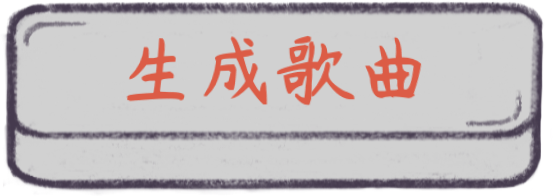
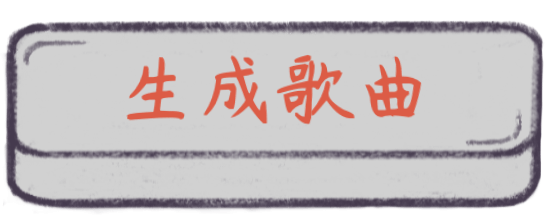
chore: 信纸页标签容器布局重新定位

diff --git a/src/components/dialog/dialog.tsx b/src/components/dialog/dialog.tsx
@@ -132,6 +132,7 @@ export default class DialogMain extends Component<IDialogProps, IDialogState> {
   private inputLock: boolean = false;
   // 保存用户选择的标签
   private selectTags: { [key: string]: boolean } = {};
+  private selectType: string = '';
 
   // iOS端：记录focus时的 scrollTop 值
   private tempScrollTop: number | undefined;
@@ -179,7 +180,12 @@ export default class DialogMain extends Component<IDialogProps, IDialogState> {
 
     document.body.addEventListener('blur', this.handleInputBlur, true);
 
-
+    // 阻止滚动时安卓浏览器发生的 resize 事件，避免导航栏工具栏消失
+    window.addEventListener("resize", function(e) {
+      console.log('resize');
+      console.log(window.innerHeight);
+      e.preventDefault();
+    }, { capture: true, passive: true });
 
     window.onload = () => {
       console.log('load');
@@ -194,7 +200,22 @@ export default class DialogMain extends Component<IDialogProps, IDialogState> {
     setTimeout(() => {
       const nodes = document.getElementsByClassName('letter-wrapper');
       if (nodes && nodes.length > 0) {
-        (nodes[0] as HTMLElement).style.height = `${window.innerWidth * 1.666}px`;
+        let h = window.innerWidth * 1.71;
+        if (h > window.innerHeight) {
+          (nodes[0] as HTMLElement).style.height = `${window.innerHeight}px`;
+
+          const imgW = window.innerHeight * (1269 / 2170);
+          
+          const tagContainer = document.querySelector('.tag-container') as HTMLElement;
+          if (tagContainer) {
+            tagContainer.style.width = `${imgW / window.innerWidth * 82.2}%`;
+            tagContainer.style.fontSize = `${16 * (1269 / 2170)}px`;
+          }
+
+
+        } else {
+          (nodes[0] as HTMLElement).style.height = `${h}px`;
+        }
       }
     }, 100);
 
@@ -364,18 +385,33 @@ export default class DialogMain extends Component<IDialogProps, IDialogState> {
     }
   }
 
-  handleClickTag = (e: any) => {
-    const type = e.target.getAttribute('data-type');
+  handleClickTag = (e: string) => {
+    // const type = e.target.getAttribute('data-type');
+    const type = e;
     if (!type) return;
+    
+    // 原本已选中一个tag, 先移除该选中态
+    if (this.selectType && this.selectType !== type) {
+      const nodes = document.getElementsByClassName(`item-${this.selectType}`);
+      for(let i = 0; i < nodes.length; i++) {
+        const list = nodes[i].classList;
+        if (list.contains('active')) {
+          nodes[i].classList.remove('active');
+        }
+      }
+    }
+
     const nodes = document.getElementsByClassName(`item-${type}`);
     for(let i = 0; i < nodes.length; i++) {
       const list = nodes[i].classList;
       if (list.contains('active')) {
         nodes[i].classList.remove('active');
-        this.selectTags[`item-${type}`] = true;
+        // this.selectTags[`item-${type}`] = false;
+        this.selectType = '';
       } else {
         nodes[i].classList.add('active');
-        this.selectTags[`item-${type}`] = false;
+        // this.selectTags[`item-${type}`] = true;
+        this.selectType = type;
       }
     }
   }
@@ -499,24 +535,50 @@ export default class DialogMain extends Component<IDialogProps, IDialogState> {
                 />
               </div>
               {sectionId === 7 && (
-                <Slider speed={20}>
-                  <div className="tag-row">
-                    <div className="tag-item item-a" onClick={this.handleClickTag} data-type="a" >爱拼才会赢</div>
-                    <div className="tag-item item-b" onClick={this.handleClickTag} data-type="b">未来不是梦</div>
-                    <div className="tag-item item-c" onClick={this.handleClickTag} data-type="c">我真的很不错</div>
-                    <div className="tag-item item-d" onClick={this.handleClickTag} data-type="d">壮志在我胸</div>
-                  </div>
-                  <div className="tag-row margin-row">
-                    <div className="tag-item item-e" onClick={this.handleClickTag} data-type="e">哈哈哈哈</div>
-                    <div className="tag-item item-f" onClick={this.handleClickTag} data-type="f">好嗨哟</div>
-                    <div className="tag-item item-g" onClick={this.handleClickTag} data-type="g">小幸运</div>
-                    <div className="tag-item item-h" onClick={this.handleClickTag} data-type="h">C位出道</div>
-                  </div>
-                  <div className="tag-row">
-                    <div className="tag-item item-i" onClick={this.handleClickTag} data-type="i">佛系少年</div>
-                    <div className="tag-item item-j" onClick={this.handleClickTag} data-type="j">葛优瘫</div>
-                    <div className="tag-item item-k" onClick={this.handleClickTag} data-type="k">断舍离</div>
-                    <div className="tag-item item-l" onClick={this.handleClickTag} data-type="l">神马都是浮云</div>
+                <Slider speed={40}>
+                  <div className="slide-content">
+                    <div className="tag-row">
+                      <div className="tag-item item-a" onClick={() => { this.handleClickTag('a'); }}>
+                        <span>爱拼才会赢</span>
+                      </div>
+                      <div className="tag-item item-b" onClick={() => { this.handleClickTag('b'); }}>
+                        <span>未来不是梦</span>
+                      </div>
+                      <div className="tag-item item-c" onClick={() => { this.handleClickTag('c'); }}>
+                        <span>我真的很不错</span>
+                      </div>
+                      <div className="tag-item item-d" onClick={() => { this.handleClickTag('d'); }}>
+                        <span>壮志在我胸</span>
+                      </div>
+                    </div>
+                    <div className="tag-row margin-row">
+                      <div className="tag-item item-e" onClick={() => { this.handleClickTag('e'); }}>
+                        <span>哈哈哈哈</span>
+                      </div>
+                      <div className="tag-item item-f" onClick={() => { this.handleClickTag('f'); }}>
+                        <span>好嗨哟</span>
+                      </div>
+                      <div className="tag-item item-g" onClick={() => { this.handleClickTag('g'); }}>
+                        <span>小幸运</span>
+                      </div>
+                      <div className="tag-item item-h" onClick={() => { this.handleClickTag('h'); }}>
+                        <span>C位出道</span>
+                      </div>
+                    </div>
+                    <div className="tag-row">
+                      <div className="tag-item item-i" onClick={() => { this.handleClickTag('i'); }}>
+                        <span>佛系少年</span>
+                      </div>
+                      <div className="tag-item item-j" onClick={() => { this.handleClickTag('j'); }}>
+                        <span>葛优瘫</span>
+                      </div>
+                      <div className="tag-item item-k" onClick={() => { this.handleClickTag('k'); }}>
+                        <span>断舍离</span>
+                      </div>
+                      <div className="tag-item item-l" onClick={() => { this.handleClickTag('l'); }}>
+                        <span>神马都是浮云</span>
+                      </div>
+                    </div>
                   </div>
                 </Slider>
               )}

diff --git a/src/components/dialog/dialog.css b/src/components/dialog/dialog.css
@@ -252,13 +252,13 @@ div.textarea:before {
 
 .letter-wrapper {
   position: absolute;
-  /* width: 100%; */
   bottom: 0;
   left: 0;
   right: 0;
   background: url('../../assets/letter.png') no-repeat;
   background-size: contain;
-  background-position: 10px center;
+  /* background-position-y: bottom; */
+  background-position: center bottom;
 }
 
 .el-confirm {
@@ -270,14 +270,14 @@ div.textarea:before {
   transform: translateX(-50%);
   background: url('../../assets/confirm-btn.png') no-repeat;
   background-size: contain;
-  background-position-y: bottom;
+  background-position: center bottom;
   user-select: none;
 }
 
 .el-confirm.touch {
   background: url('../../assets/confirm-btn_touch.jpg') no-repeat; 
   background-size: contain;
-  background-position-y: bottom;
+  background-position: center bottom;
 }
 
 @keyframes rotateUp {
@@ -316,11 +316,24 @@ div.textarea:before {
   background: center / contain no-repeat url('../../assets/bg-lyrics.png');
 }
 
+.slide-content {
+  height: 100%;
+  width: 100%;
+  display: flex;
+  flex-direction: column;
+  justify-content: space-around;
+}
+
 .tag-container {
   position: relative;
-  width: 86%;
   margin: 0 auto;
-  top: 49%;
+  /* top: 49%; */
+  /* 下面三个比例均为相对信纸元素尺寸 */
+  top: 46%;
+  height: 25.1%;
+  /* width可能会变 */
+  width: 82.2%;
+  transform: translateX(-1rem);
 }
 
 .str_move {
@@ -343,6 +356,12 @@ div.textarea:before {
   background: center / cover url('../../assets/tag.png') no-repeat;
   font-size: 0.8rem;
   margin-left: 0.8rem;
+
+  width: 7.5em;
+  height: 2.5em;
+  line-height: 2em;
+  font-size: 0.8em;
+  margin-left: 0.8em;
 }
 
 .tag-click {
@@ -355,24 +374,24 @@ div.textarea:before {
 
 /* 自定义歌曲名输入框 */
 .input-container {
-  width: 8rem;
-  height: 2rem;
+  width: 8em;
   margin: 0 auto;
   background: center / contain url('../../assets/input.png') no-repeat;
-  margin-bottom: 0.3rem;
+  height: 26%;
 }
 
 .input-container input[type='text'] {
   user-select: auto;
-  width: 8rem;
-  height: 2rem;
-  line-height: 2rem;
+  width: 8em;
+  /* height: 2rem; */
+  height: 100%;
+  line-height: 2em;
   background: transparent;
   outline: 0;
   -webkit-appearance: none;
   -moz-appearance: none;
   appearance: none;
-  font-size: 0.8rem;
+  font-size: 0.8em;
   color: black;
   border: none;
   padding: 0;

diff --git a/src/components/slider/slide.tsx b/src/components/slider/slide.tsx
@@ -85,7 +85,8 @@ export class Slider extends Component<ISliderProps, ISliderState> {
     if (contentRef && copyRef && wrapper) {
       // setTimeout 确保dom已经渲染完成
       setTimeout(() => {
-        wrapper.style.height = contentRef.offsetHeight + 'px';
+        // wrapper.style.height = contentRef.offsetHeight + 'px';
+        wrapper.style.height = '100%';
         // console.log(contentRef.offsetWidth);
         // console.log(contentRef.scrollWidth);
         wrapper.style.width = contentRef.scrollWidth + 'px';
@@ -143,6 +144,7 @@ export class Slider extends Component<ISliderProps, ISliderState> {
         onTouchEnd={this.onDragEnd}
         style={{
           overflow: 'hidden',
+          height: '74%',
         }}
       >
         <div ref={this.setWrapperRef} className="slider-wrapper">

diff --git a/src/config.ts b/src/config.ts
@@ -113,15 +113,13 @@ export const animationGroup: IAniFrame[][] = [
       aniCls: ['rl-circle', 'infinite'],
       addAfterAnimation: [],
       removeBeforeAnimation: [],
-      children: [
-        {
-          selector: '.intro5',
-          aniCls: ['fadeIn'],
-          addAfterAnimation: ['opacity1'],
-          removeBeforeAnimation: ['opacity0'] 
-        },
-      ]
-    }
+    },
+    {
+      selector: '.intro5',
+      aniCls: ['fadeIn'],
+      addAfterAnimation: ['opacity1'],
+      removeBeforeAnimation: ['opacity0'] 
+    },
   ],
   // scene 5
   [

diff --git a/public/index.html b/public/index.html
@@ -1,5 +1,5 @@
 <!DOCTYPE html>
-<html lang="en">
+<html lang="ch">
   <head>
     <meta charset="utf-8" />
     <link rel="icon" href="%PUBLIC_URL%/favicon.ico" />

diff --git a/src/components/slider/slide.css b/src/components/slider/slide.css
@@ -9,4 +9,5 @@
 .slider-content {
   display: inline-block;
   width: 100%;
+  height: 100%;
 }
